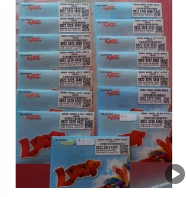
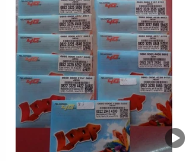
produk 3 dan 4 selesai

diff --git a/dashboard.html b/dashboard.html
@@ -80,8 +80,30 @@
                         <a href="https://shopee.co.id/Kartu-as-madura-asli-Combo-sakti-cantik-murah-i.355348488.23460655538" style="height: 4px; color: darkred; "> --> BELI DISINI <-- </a>
                     </div>
                 </div>
-                <div id="k3">kartu 3</div>
-                <div id="k3">kartu 4</div>
+                <div id="k3">
+                    <div>
+                        <img src="img/k3.png" alt="k1" style="width: 100%; margin-top: -50px;" >
+                    </div>
+                    <div style="background-color: white; height: 54%;  margin-top: -50px; padding-top: 37px; ">
+                        <h6 style="color: black;"> KARTU AS MADURA CANTIK AABB</h6>
+                        <br>
+                        <h5 style="color: orangered;">RP. 125.000</h5>
+                        <br>
+                        <a href="https://shopee.co.id/Kartu-as-madura-asli-Combo-sakti-cantik-murah-i.355348488.23460655538" style="height: 4px; color: darkred; "> --> BELI DISINI <-- </a>
+                    </div>
+                </div>
+                <div id="k4">
+                    <div>
+                        <img src="img/k4.png" alt="k1" style="width: 100%; margin-top: -50px; height: 50%;" >
+                    </div>
+                    <div style="background-color: white; height: 70%;  margin-top: -20px; padding-top: 75px; ">
+                        <h6 style="color: black;"> KARTU AS MADURA CANTIK AABB</h6>
+                        <br>
+                        <h5 style="color: orangered;">RP. 125.000</h5>
+                        <br>
+                        <a href="https://shopee.co.id/Kartu-as-madura-asli-Combo-sakti-cantik-murah-i.355348488.23460655538" style="height: 4px; color: darkred; "> --> BELI DISINI <-- </a>
+                    </div>
+                </div>
                 <div id="k3">kartu 5</div>
             </div>
             <br>

diff --git a/index.js b/index.js
@@ -10,6 +10,6 @@ document.getElementById('loginForm').addEventListener('submit', function(event) 
         window.location.href = 'dashboard.html'; // Redirect ke halaman dashboard
     } else {
         // Login gagal
-        document.getElementById('error-message').style.display = 'block';
+        alert("maaf username dan password yang anda masukkan salah! 🙏")
     }
 });

diff --git a/index.php b/index.php
@@ -4,7 +4,7 @@
     <meta charset="UTF-8">
     <meta name="viewport" content="width=device-width, initial-scale=1.0">
     <title>Login</title>
-    <link rel="stylesheet" href="login.css">
+    <link rel="stylesheet" href="index.css">
 </head>
 <body>
 
@@ -21,6 +21,6 @@
     <button type="submit">Login</button>
     </div>
 </form>
-<script src="login.js"></script>
+<script src="index.js"></script>
 </body>
 </html>
